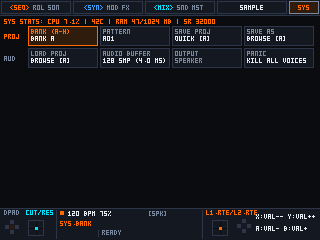
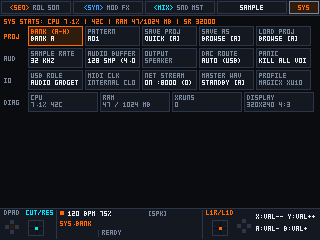
docs(screenshots): regenerate all 20 UI tour screenshots and refine HUD stick label width
- Format HUD stick target labels with 3-char axis tokens (L1R/L1D, CUT/RES) and respect activeProfile().has_analog_sticks
- Regenerate all 20 UI tour PNG screenshots in docs/screenshots/ reflecting 7 synth engines, 2x5 SampleView, and updated SYS tab

diff --git a/src/ui/ui_shell.cpp b/src/ui/ui_shell.cpp
@@ -275,14 +275,32 @@ void UiShell::renderHud(Canvas& cv, const UiContext& ctx) {
     cv.text(4, hud_y + 2, "DPAD", palette::kTextDim);
 
     // 2. L-Stick Box з динамічною мішенню (реактивно до Mode 1 / Mode 2)
+    auto stickToken3 = [](ModTarget t) -> std::string {
+        switch (t) {
+            case ModTarget::kLfo1Rate:  return "L1R";
+            case ModTarget::kLfo1Depth: return "L1D";
+            case ModTarget::kLfo2Rate:  return "L2R";
+            case ModTarget::kLfo2Depth: return "L2D";
+            case ModTarget::kLfo3Rate:  return "L3R";
+            case ModTarget::kLfo3Depth: return "L3D";
+            case ModTarget::kLfo4Rate:  return "L4R";
+            case ModTarget::kLfo4Depth: return "L4D";
+            default: {
+                std::string s(getStickDestShortName(t));
+                return s.length() > 3 ? s.substr(0, 3) : s;
+            }
+        }
+    };
     const auto tp = ctx.audio.getTrackParams(ctx.app.selected_track);
     const auto& sl = ctx.in.l3 ? tp.stick_l_m2 : tp.stick_l_m1;
     const auto& sr = ctx.in.r3 ? tp.stick_r_m2 : tp.stick_r_m1;
-    std::string l_dest = std::string(getStickDestShortName(sl.dest_x)) + "/" + getStickDestShortName(sl.dest_y);
-    std::string r_dest = std::string(getStickDestShortName(sr.dest_x)) + "/" + getStickDestShortName(sr.dest_y);
+    std::string l_dest = stickToken3(sl.dest_x) + "/" + stickToken3(sl.dest_y);
+    std::string r_dest = stickToken3(sr.dest_x) + "/" + stickToken3(sr.dest_y);
 
-    cv.text(26, hud_y + 2, l_dest, palette::kAccentCyan);
-    widgets::stickBox(cv, 28, hud_y + 12, ctx.in.lx, ctx.in.ly, ctx.in.l3, palette::kAccentCyan);
+    if (activeProfile().has_analog_sticks) {
+        cv.text(26, hud_y + 2, l_dest, palette::kAccentCyan);
+        widgets::stickBox(cv, 28, hud_y + 12, ctx.in.lx, ctx.in.ly, ctx.in.l3, palette::kAccentCyan);
+    }
 
     // 3. Центральна панель статусу (x = 56..202)
     cv.line(56, hud_y + 2, 56, logical_h_ - 2, palette::kGridDim);
@@ -347,8 +365,10 @@ void UiShell::renderHud(Canvas& cv, const UiContext& ctx) {
     }
 
     // 4. R-Stick Box з динамічною мішенню
-    cv.text(206, hud_y + 2, r_dest, palette::kAccentOrange);
-    widgets::stickBox(cv, 212, hud_y + 12, ctx.in.rx, ctx.in.ry, ctx.in.r3, palette::kAccentOrange);
+    if (activeProfile().has_analog_sticks) {
+        cv.text(206, hud_y + 2, r_dest, palette::kAccentOrange);
+        widgets::stickBox(cv, 212, hud_y + 12, ctx.in.rx, ctx.in.ry, ctx.in.r3, palette::kAccentOrange);
+    }
 
     // 5. ABXY Diamond Графіка
     widgets::abxy(cv, 244, hud_y + 18, ctx.in);
